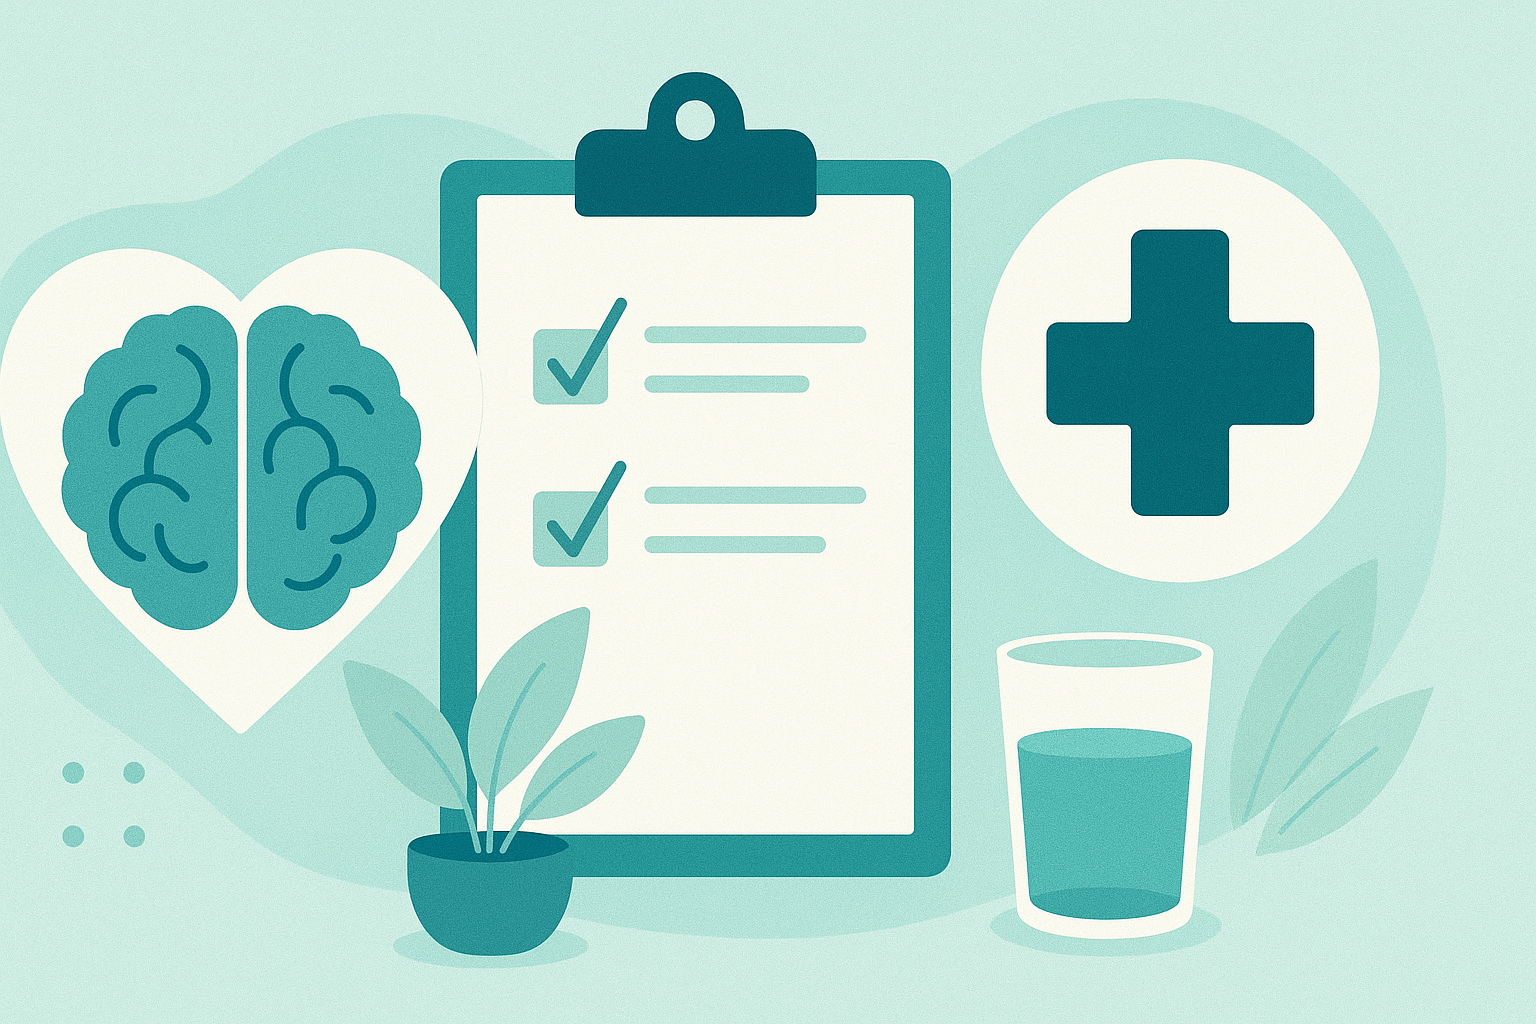
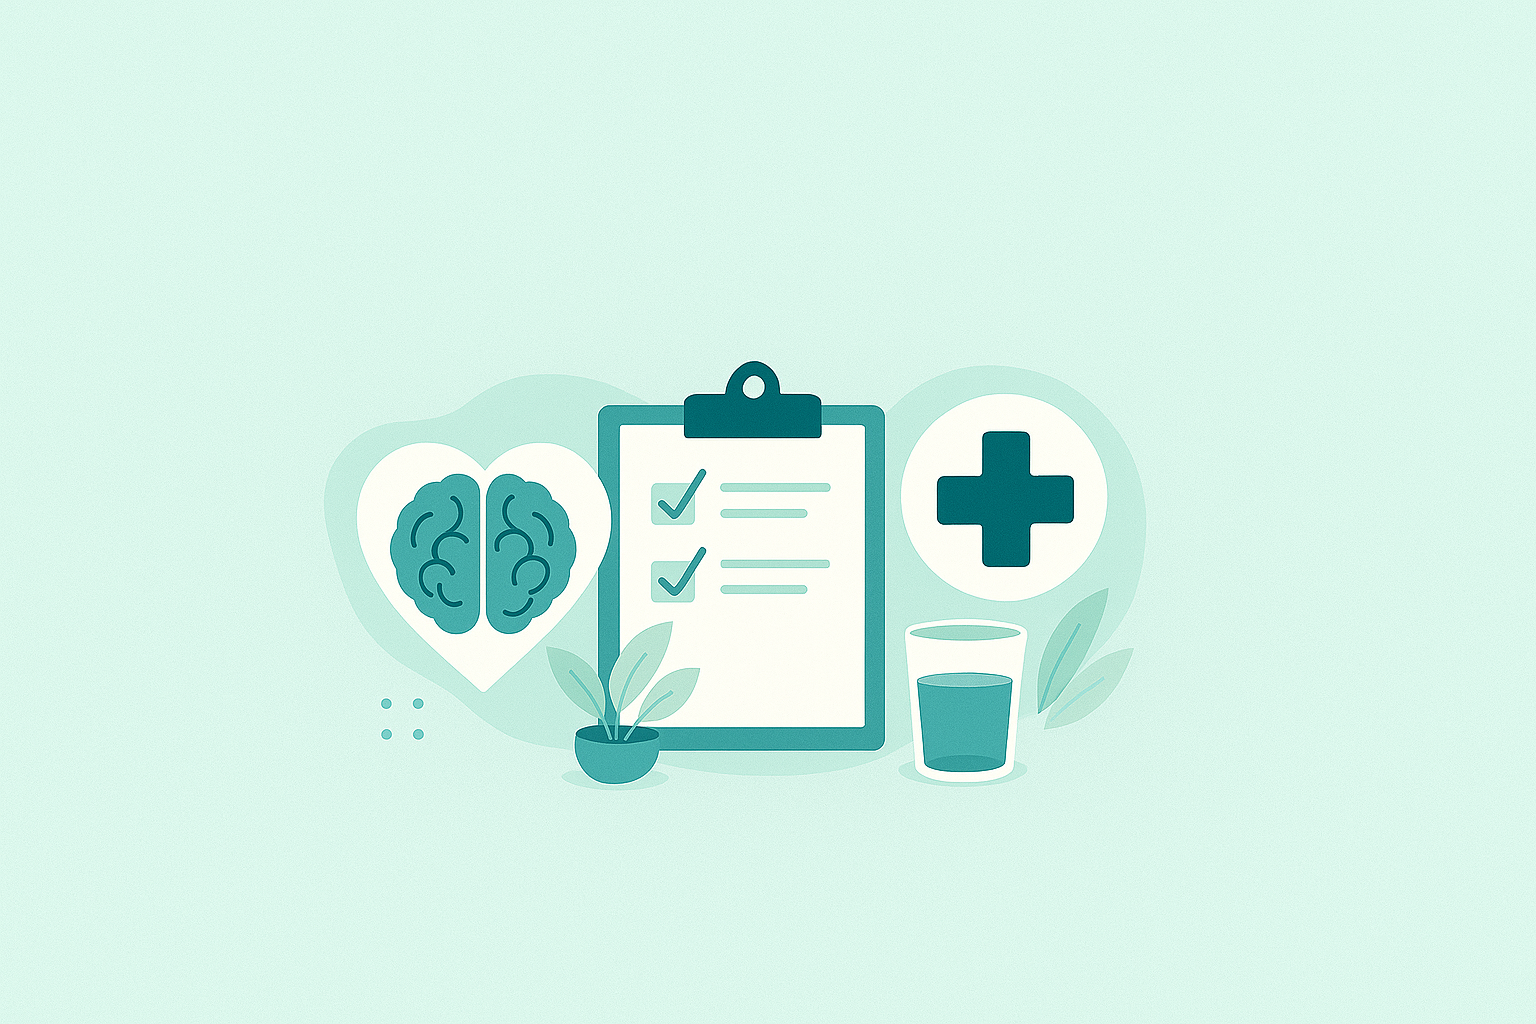
ui: make in india ui polished

diff --git a/src/components/MakeInIndia.tsx b/src/components/MakeInIndia.tsx
@@ -1,43 +1,45 @@
+import { BadgeCheck, UserStar } from "lucide-react";
+
 export default function MakeInIndia() {
   return (
-    <div className="bg-make-in-india-bg animate-float-3 py-[30px] sm:py-[60px] px-[20px] sm:px-[40px] max-w-[1350px] mx-auto rounded-[20px] sm:rounded-[30px] mb-[30px] sm:mb-[50px]">
-      <div className="flex flex-col sm:flex-row items-center sm:justify-between gap-[20px] sm:gap-[20px]">
-        <div className="left flex flex-col sm:flex-row animate-float-2 items-center gap-[5px] sm:gap-[15px] justify-center sm:justify-start max-w-[300px] sm:max-w-none mx-auto sm:w-auto sm:mx-0">
+    <div className="bg-make-in-india-bg shadow-m-dark py-[30px] sm:py-[60px] px-[20px] sm:px-[40px] max-w-[1350px] mx-auto rounded-[20px] sm:rounded-[30px] mb-[30px] sm:mb-[50px]">
+      <div className="flex flex-col md:flex-row items-center md:justify-between gap-[25px] md:gap-[40px]">
+        <div className="left flex flex-col md:flex-row animate-float-3 items-center gap-[5px] md:gap-[15px] justify-center md:justify-start max-w-[300px] md:max-w-none mx-auto md:w-auto md:mx-0">
           <img
             src="/images/navbar/logo_white.png"
             alt="MindCurePath Logo"
             className="w-[70px] sm:w-[70px] flex-shrink-0"
           />
 
-          <div className="content text-white text-center sm:text-left">
-            <h1 className="text-[20px] sm:text-[26px] font-medium">
+          <div className="content text-white text-center md:text-left">
+            <h1 className="text-[20px] md:text-[26px] font-medium">
               MindCurePath
             </h1>
 
-            <div className="text-[13px] sm:hidden font-light flex flex-col">
+            <div className="text-[13px] md:hidden font-light flex flex-col">
               <p>India's own virtual counselling platform</p>
               <p>built by Indians, for Indians</p>
             </div>
-            <p className="hidden sm:block text-[14px] font-light uppercase">
+            <p className="hidden md:block text-[14px] font-light uppercase">
               India's own virtual counselling platform built by Indians, for
               Indians
             </p>
           </div>
         </div>
 
-        <div className="right text-white text-center sm:text-center animate-float-2">
+        <div className="right text-white text-center sm:text-center animate-float-1">
           <h1 className="uppercase mb-[8px] sm:mb-[10px] text-[16px] sm:text-[20px] font-extralight tracking-wide leading-normal">
             Proudly Supports
           </h1>
 
-          <h1 className="uppercase text-[28px] sm:text-[35px] font-bold tracking-wider leading-[28px] sm:leading-[35px]">
+          <h1 className="uppercase text-[28px] sm:text-[35px] font-bold tracking-wider leading-[28px] sm:leading-[35px] whitespace-nowrap">
             MAKE IN INDIA
           </h1>
         </div>
       </div>
 
       <div className="flex flex-col lg:flex-row items-stretch lg:items-center lg:justify-between gap-[20px] mt-[25px] sm:mt-[30px]">
-        <div className="bg-[#45565b] text-white px-[20px] sm:px-[25px] animate-float-1 py-[20px] sm:py-[25px] rounded-[12px] sm:rounded-[15px] shadow-lg flex flex-col gap-[12px] sm:gap-[15px]">
+        <div className="bg-[#45565b] text-white px-[20px] sm:px-[25px] animate-float-1 py-[20px] sm:py-[25px] rounded-[12px] sm:rounded-[15px] shadow-lg flex flex-col gap-[12px] sm:gap-[15px] w-full lg:w-[60%]">
           <p className="text-[14px] sm:text-[16px] leading-relaxed">
             Mind Cure Path proudly supports the Make in India initiative — a
             movement that celebrates innovation, entrepreneurship, and
@@ -55,21 +57,21 @@ export default function MakeInIndia() {
           </p>
         </div>
 
-        <div className="text-white flex flex-col gap-[15px] sm:gap-[20px] w-full lg:w-auto">
-          <div className="bg-[#45565b] px-[18px] sm:px-[20px] py-[18px] animate-float-2 sm:py-[20px] rounded-[10px] shadow-lg w-full lg:min-w-[250px]">
+        <div className="text-white flex flex-col gap-[15px] sm:gap-[15px] w-full lg:w-[40%] self-start">
+          <div className="bg-[#45565b] flex items-center gap-[15px] px-[18px] sm:px-[20px] py-[18px] animate-float-2 sm:py-[20px] rounded-[10px] shadow-lg w-full lg:min-w-[250px]">
+            <BadgeCheck size={40} className="text-white" />
+
             <p className="text-[14px] sm:text-[16px]">
               Certified Indian Counselors, Therapists, Dieticians
             </p>
-
-            <img src="" alt="" />
           </div>
 
-          <div className="bg-[#45565b] px-[18px] sm:px-[20px] py-[18px] animate-float-2 sm:py-[20px] rounded-[10px] shadow-lg w-full lg:min-w-[250px]">
+          <div className="bg-[#45565b] flex items-center gap-[15px] px-[18px] sm:px-[20px] py-[18px] animate-float-3 sm:py-[20px] rounded-[10px] shadow-lg w-full lg:min-w-[250px]">
+            <UserStar size={50} className="text-white" />
+
             <p className="text-[14px] sm:text-[16px]">
               Academic Advisors, Financial Consultants, GST & Taxation Experts
             </p>
-
-            <img src="" alt="" />
           </div>
         </div>
       </div>

diff --git a/src/pages/WellnessExpertsIntro.tsx b/src/pages/WellnessExpertsIntro.tsx
@@ -15,7 +15,7 @@ function ExpertCategoryCard({
   exploreText,
 }: ExpertCategoryCardProps & { exploreText: string }) {
   return (
-    <div className="flex flex-col justify-between shadow-none hover:scale-[1.018] hover:shadow-[4px_4px_10px_rgba(0,0,0,0.28)] transition-all duration-150 cursor-pointer gap-[10px] border py-[15px] px-[20px] rounded-[10px] border-[#9ba5ab] w-full md:w-auto md:flex-1 h-full">
+    <div className="flex flex-col justify-between bg-[hsl(0,0%,97%)] hover:bg-white shadow-l hover:scale-[1.025] transition-all duration-150 cursor-pointer gap-[10px] py-[15px] px-[20px] rounded-[10px] border-[#9ba5ab] w-full md:w-auto md:flex-1 h-full">
       <div>
         <h1 className="text-[20px] md:text-[25px] font-medium text-center text-[#374750]">
           {title}
@@ -64,7 +64,7 @@ export default function WellnessExpertsIntro() {
         <img
           src="/images/health/health.jpg"
           alt=""
-          className="w-full h-full object-cover rounded-[30px]"
+          className="w-full h-full object-cover rounded-[30px] shadow-lg"
         />
       </div>
 

diff --git a/src/pages/Profile.tsx b/src/pages/Profile.tsx
@@ -50,7 +50,7 @@ export default function Profile() {
 
         {/* Hero / header */}
         <section className="bg-gradient-to-r from-[hsl(194,27%,21%)] to-[hsl(187,73%,24%)] rounded-[16px] sm:rounded-[20px] p-[16px] sm:p-[28px] text-light-100 shadow-[inset_0px_1px_5px_hsla(0,0%,100%,0.4)] flex flex-col sm:flex-row sm:items-center sm:justify-between gap-[16px] sm:gap-[20px]">
-          <div className="flex items-center gap-[12px] sm:gap-[16px] shadow-m-profile rounded-[30px] sm:rounded-[25px] p-[12px] sm:p-[18px]">
+          <div className="flex items-center gap-[12px] sm:gap-[16px] shadow-m-profile rounded-[30px] sm:rounded-[25px] py-[12px] sm:py-[18px] px-[12px] sm:pr-[25px]">
             <div className="w-[56px] h-[56px] sm:w-[64px] sm:h-[64px] rounded-full bg-light-100/10 border border-light-100/40 flex items-center justify-center text-[22px] sm:text-[26px] font-semibold overflow-hidden flex-shrink-0">
               {user.avatarUrl ? (
                 <img

diff --git a/src/pages/Therapists.tsx b/src/pages/Therapists.tsx
@@ -1,9 +1,9 @@
 import { useState, useEffect } from "react";
 import { useLocation } from "react-router-dom";
 import { useTranslation } from "react-i18next";
-import ExpertsHeroSection from "../components/ExpertsHeroSection";
 import ResponsiveNavbar from "../components/ResponsiveNavbar";
 import { EXPERT_CATEGORIES } from "../lib/constants";
+import TherapistsHeroSection from "../components/therapists/TherapistsHeroSection";
 import TherapistsTitle from "../components/therapists/TherapistsTitle";
 import TherapistsOptions from "../components/therapists/TherapistsOptions";
 import TherapistsFilterModal from "../components/therapists/TherapistsFilterModal";
@@ -130,7 +130,7 @@ export default function Therapists() {
     <div className="px-[20px] mb-[80px]">
       <ResponsiveNavbar />
 
-      <ExpertsHeroSection />
+      <TherapistsHeroSection />
 
       <TherapistsTitle sector={sector} />
 

diff --git a/src/components/ExpertsHeroSection.tsx b/src/components/ExpertsHeroSection.tsx
@@ -1,17 +1,5 @@
 export default function ExpertsHeroSection() {
   return (
-    <div className="expert-hero-gradient mt-[10px] max-w-[1350px] mx-auto rounded-[30px]">
-      <div className="flex items-center justify-between">
-        {/* <h1 className="text-[24px] font-light text-[#304048] italic">
-          You Care for Others. We Care for You.
-        </h1> */}
-
-        <img
-          src="/images/experts/expert-image.png"
-          alt="Experts Hero Section"
-          className="rounded-[30px] w-full max-h-[250px] object-cover"
-        />
-      </div>
-    </div>
+    
   );
 }

diff --git a/src/index.css b/src/index.css
@@ -34,10 +34,12 @@
   --shadow-m-profile: inset 0 1px 1px hsla(0, 0%, 100%, 0.5), 0 0px 2px hsl(0, 0%, 0%, 0.20), 0 8px 16px hsl(0, 0%, 0%, 0.15);
   --shadow-m-dark: inset 0 2px 1px hsl(0, 0%, 20%), 0 0px 3px hsl(0, 0%, 0%, 0.40), 0 8px 16px hsl(0, 0%, 0%, 0.30);
 
+  /* Large Shadows */
+  --shadow-l: inset 0 5px 3px white, 0 1px 4px #00000010, 0 2px 8px #00000015, 0 2px 5px #00000015;
+
   /* Hover Colors */
   --color-hover-bg: hsl(194, 57%, 17%, 0.08);
 }
-
 
 .expert-hero-gradient {
   background: #cfdfe6;

diff --git a/src/components/therapists/TherapistsHeroSection.tsx b/src/components/therapists/TherapistsHeroSection.tsx
@@ -1,0 +1,7 @@
+export default function TherapistsHeroSection() {
+  return (
+    <div className="expert-hero-gradient flex items-center justify-between mt-[10px] max-w-[1350px] mx-auto overflow-hidden rounded-[30px]">
+      hu
+    </div>
+  );
+}
